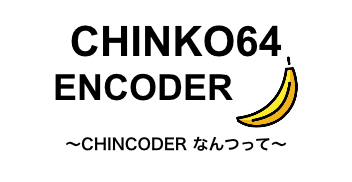
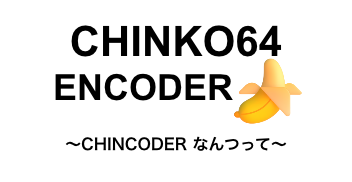
サイトのバナナは絵文字に戻し、ボタンの色を入れ替える
サムネイルだけ Windows の立体バナナ画像にする。上の Decode は暗い黄、下の Encode は緑。

Changed region(s): [[0.6562, 0.3022, 0.875, 0.7143]]

diff --git a/index.html b/index.html
@@ -28,13 +28,13 @@
 	</style>
 	<link rel="icon" type="image/png" href="./thumbnail.png">
 	<script src="./script.js"></script>
-	<title>CHINKO64 ENCODER</title>
+	<title>CHINKO64 ENCODER🍌</title>
 </head>
 
 <body class="bg-gray-100 leading-normal tracking-normal">
-	<div id="header" class="bg-[#ffe34d] text-[#1a1408] text-center py-6">
+	<div id="header" class="bg-[#fff56a] text-[#1a1408] text-center py-6">
 		<div id="title" class="text-4xl font-bold">
-			CHINKO64 ENCODER<img src="./banana.png" alt="" class="inline-block align-[-0.15em] h-[1.15em] w-auto ml-1">
+			CHINKO64 ENCODER🍌
 		</div>
 		<p class="text-lg mt-2">～CHINCODER なんつって～</p>
 	</div>
@@ -43,21 +43,21 @@
 		<hr class="border-gray-300 mb-4">
 		<div id="decode" class="space-y-4">
 			<textarea id="beforeDecodeText" rows="4"
-				class="w-full p-2 border border-gray-300 rounded-md focus:outline-none focus:ring-2 focus:ring-[#9a7200]"></textarea>
-			<button class="font-bold text-white bg-lime-500 py-2 px-4 w-1/3 rounded-md hover:bg-lime-600"
+				class="w-full p-2 border border-gray-300 rounded-md focus:outline-none focus:ring-2 focus:ring-[#e6b000]"></textarea>
+			<button class="font-bold bg-[#f5c400] text-[#1a1408] border-2 border-[#d9a400] shadow-sm py-2 px-4 w-1/3 rounded-md hover:bg-[#e6b000]"
 				id="decodeButton">Decode</button>
 			<textarea id="afterDecodeText" rows="4"
-				class="w-full p-2 border border-gray-300 rounded-md focus:outline-none focus:ring-2 focus:ring-[#9a7200]"></textarea>
+				class="w-full p-2 border border-gray-300 rounded-md focus:outline-none focus:ring-2 focus:ring-[#e6b000]"></textarea>
 		</div>
 		<h2 class="text-2xl font-bold text-gray-800 mt-8 mb-4">Encode</h2>
 		<hr class="border-gray-300 mb-4">
 		<div id="encode" class="space-y-4">
 			<textarea id="beforeEncodeText" rows="4"
-				class="w-full p-2 border border-gray-300 rounded-md focus:outline-none focus:ring-2 focus:ring-[#9a7200]"></textarea>
-			<button class="font-bold bg-[#9a7200] text-white py-2 px-4 w-1/3 rounded-md hover:bg-[#7a5a00]"
+				class="w-full p-2 border border-gray-300 rounded-md focus:outline-none focus:ring-2 focus:ring-[#e6b000]"></textarea>
+			<button class="font-bold text-white bg-lime-500 py-2 px-4 w-1/3 rounded-md hover:bg-lime-600"
 				id="encodeButton">Encode</button>
 			<textarea id="afterEncodeText" rows="4"
-				class="w-full p-2 border border-gray-300 rounded-md focus:outline-none focus:ring-2 focus:ring-[#9a7200]"></textarea>
+				class="w-full p-2 border border-gray-300 rounded-md focus:outline-none focus:ring-2 focus:ring-[#e6b000]"></textarea>
 		</div>
 
 	</div>
